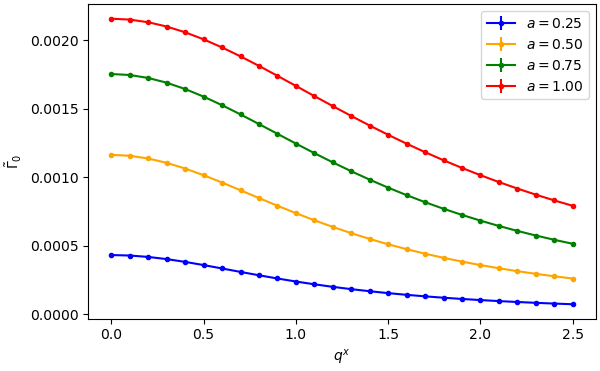
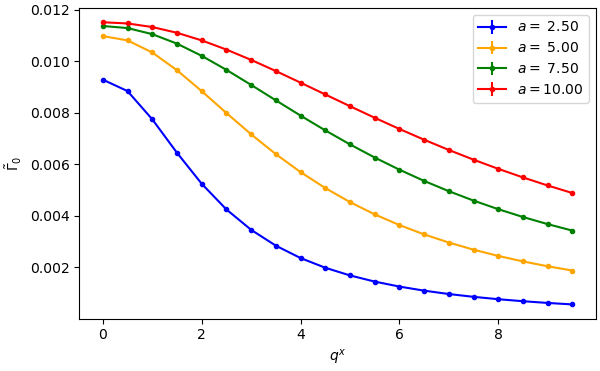
update mass parameters in all plots

diff --git a/plot_finite_temp_vertex_correction.py b/plot_finite_temp_vertex_correction.py
@@ -20,11 +20,9 @@ correction_err_arr = finite_temp_err_arr + zero_temp_err_arr
 params = {
     0: [-1, 'blue', 'upper right', None, r'$\tilde{\Gamma}_T - \tilde{\Gamma}_0$'],
     1: [-1, 'orange', 'upper right', None, None],
-    2: [-1, 'green', 'lower left', r'$a$', r'$\tilde{\Gamma}_T - \tilde{\Gamma}_0$'],
-    3: [-1, 'red', 'lower left', r'$a$', None],
+    2: [-1, 'green', 'lower right', r'$a$', r'$\tilde{\Gamma}_T - \tilde{\Gamma}_0$'],
+    3: [-1, 'red', 'lower right', r'$a$', None],
 }
-
-# max_a_indices = [22, 11, 10, 8, 6]
 
 fig, ax = plt.subplots(nrows=2, ncols=2, sharex=True, sharey=False,
                        figsize=(6, 3.7), layout='constrained')
@@ -46,5 +44,4 @@ add_plot(0, 1, 1)
 add_plot(1, 0, 2)
 add_plot(1, 1, 3)
 
-# ax.set_ylabel(r'$\tilde{\Gamma}_T - \tilde{\Gamma}_0$')
 plt.show()

diff --git a/write_finite_temp_vertex_correction.py b/write_finite_temp_vertex_correction.py
@@ -1,7 +1,6 @@
 """Write the data needed to plot the finite temperature vertex correction."""
 import pickle
 import numpy as np
-import sympy as sp
 
 import finite_temperature_vertex as ftv
 from finite_real_part import finite_real_part
@@ -16,12 +15,11 @@ def append_to(result_matrix, col_num):
     result_matrix.append(finite_real_parts)
 
 
-eps = sp.symbols('eps')
-el_list = list(np.arange(0, 5))
+el_list = list(np.arange(0, 4))
 q1_space = 0, 0, 0
 q2_space = 0, 0, 0
-xis = 1, 1, 1
-a_list = list(np.linspace(0.1, 2.5, 40))
+xis = 1, 0.5, 0
+a_list = list(np.linspace(0.025, 10, 25))
 n_max = 75
 n_range = range(-n_max, n_max + 1)
 

diff --git a/write_zero_temp_vertex_data.py b/write_zero_temp_vertex_data.py
@@ -1,19 +1,16 @@
 """Write the data needed to plot the zero-temperature vertex function."""
 import pickle
 import numpy as np
-import sympy as sp
 
 from finite_real_part import finite_real_part
 import zero_temperature_vertex as ztv
 
-eps = sp.symbols('eps')
-
 q1_space = 0, 0, 0
 q2_space = 0, 0, 0
-xis = 1, 1, 1
+xis = 1, 0.5, 0
 
-el_list = list(np.arange(0, 5))
-a_list = list(np.linspace(0.1, 2.5, 25))
+el_list = list(np.arange(0, 4))
+a_list = list(np.linspace(0.025, 10, 25))
 
 vertex_val_data = []
 vertex_err_data = []

diff --git a/plot_zero_temp_vertex_momentum_data.py b/plot_zero_temp_vertex_momentum_data.py
@@ -17,7 +17,7 @@ fig, ax = plt.subplots(layout='constrained', figsize=(6, 3.71))
 for index in range(len(a_arr)):
     ax.errorbar(x=qx_arr, y=vertex_val_arr[index], yerr=vertex_err_arr[index],
                 fmt='.-', color=colors[index],
-                label=r'$a=$' + '{0:4.2f}'.format(a_arr[index]))
+                label=r'$a=$' + '{0:5.2f}'.format(a_arr[index]))
     ax.legend(loc='upper right')
     ax.set_xlabel(r'$q^x$')
     ax.set_ylabel(r'$\tilde{\Gamma}_0$')

diff --git a/zero_temperature_correlator.py b/zero_temperature_correlator.py
@@ -19,9 +19,9 @@ from pysecdec_output_tools import get_uncertainty, get_value, psd_to_sympy
 import spatial_integral as spint
 from wick_rotation import to_euclidean
 
-REL_ERROR = 1e-6
-ABS_ERROR = 1e-9
-MAX_ITER = 1_000_000
+REL_ERROR = 1e-3
+ABS_ERROR = 1e-8
+MAX_ITER = 5_000_000
 
 # load pySecDec libraries for the zero temperature spacetime integrals
 spacetime_int_psd = IntegralLibrary('phiCubed_31/phiCubed_31_pylink.so')

diff --git a/spatial_integral.py b/spatial_integral.py
@@ -13,9 +13,9 @@ from pySecDec.integral_interface import IntegralLibrary
 from dot_product import dot_product
 from pysecdec_output_tools import get_value, get_uncertainty, psd_to_sympy
 
-REL_ERROR = 1e-6
-ABS_ERROR = 1e-9
-MAX_ITER = 1000000
+REL_ERROR = 1e-3
+ABS_ERROR = 1e-8
+MAX_ITER = 5_000_000
 
 # load pySecDec libraries for the spatial integrals
 spatial_int_psd =\

diff --git a/plot_zero_temp_vertex_data.py b/plot_zero_temp_vertex_data.py
@@ -16,7 +16,7 @@ vertex_err_arr = np.array(data['vertex_err_data'])
 colors = ['blue', 'orange', 'green', 'red']
 
 fig, ax = plt.subplots(layout='constrained', figsize=(6, 3.71))
-for p in range(len(el_arr) - 1):
+for p in range(len(el_arr)):
     ax.errorbar(x=a_arr, y=vertex_val_arr[p],
                 yerr=vertex_err_arr[p],
                 fmt='.-', color=colors[p],

diff --git a/write_finite_temp_vertex_correction_momentum_data.py b/write_finite_temp_vertex_correction_momentum_data.py
@@ -14,10 +14,10 @@ def get_finite_real_parts(matrix, col):
 
 el_1 = 1
 el_2 = 1
-qx_list = list(np.arange(0, 2.6, 0.1))
-xis = 1, 1, 1
-a_list = [0.25, 0.5, 0.75, 1]
-n_max = 50
+qx_list = list(np.arange(0, 10, 0.5))
+xis = 1, 0.5, 0
+a_list = [2.5, 5., 7.5, 10.]
+n_max = 75
 n_range = range(-n_max, n_max + 1)
 
 zero_temp_val_matrix = []

diff --git a/write_zero_temp_vertex_momentum_data.py b/write_zero_temp_vertex_momentum_data.py
@@ -7,9 +7,9 @@ import zero_temperature_vertex as ztv
 
 el_1 = 1
 el_2 = 1
-qx_list = list(np.arange(0, 2.6, 0.1))
-a_list = [0.25, 0.5, 0.75, 1.]
-xis = 1, 1, 1
+qx_list = list(np.arange(0, 10, 0.5))
+a_list = [2.5, 5., 7.5, 10.]
+xis = 1., 0.5, 0
 
 vertex_val_data = []
 vertex_err_data = []
